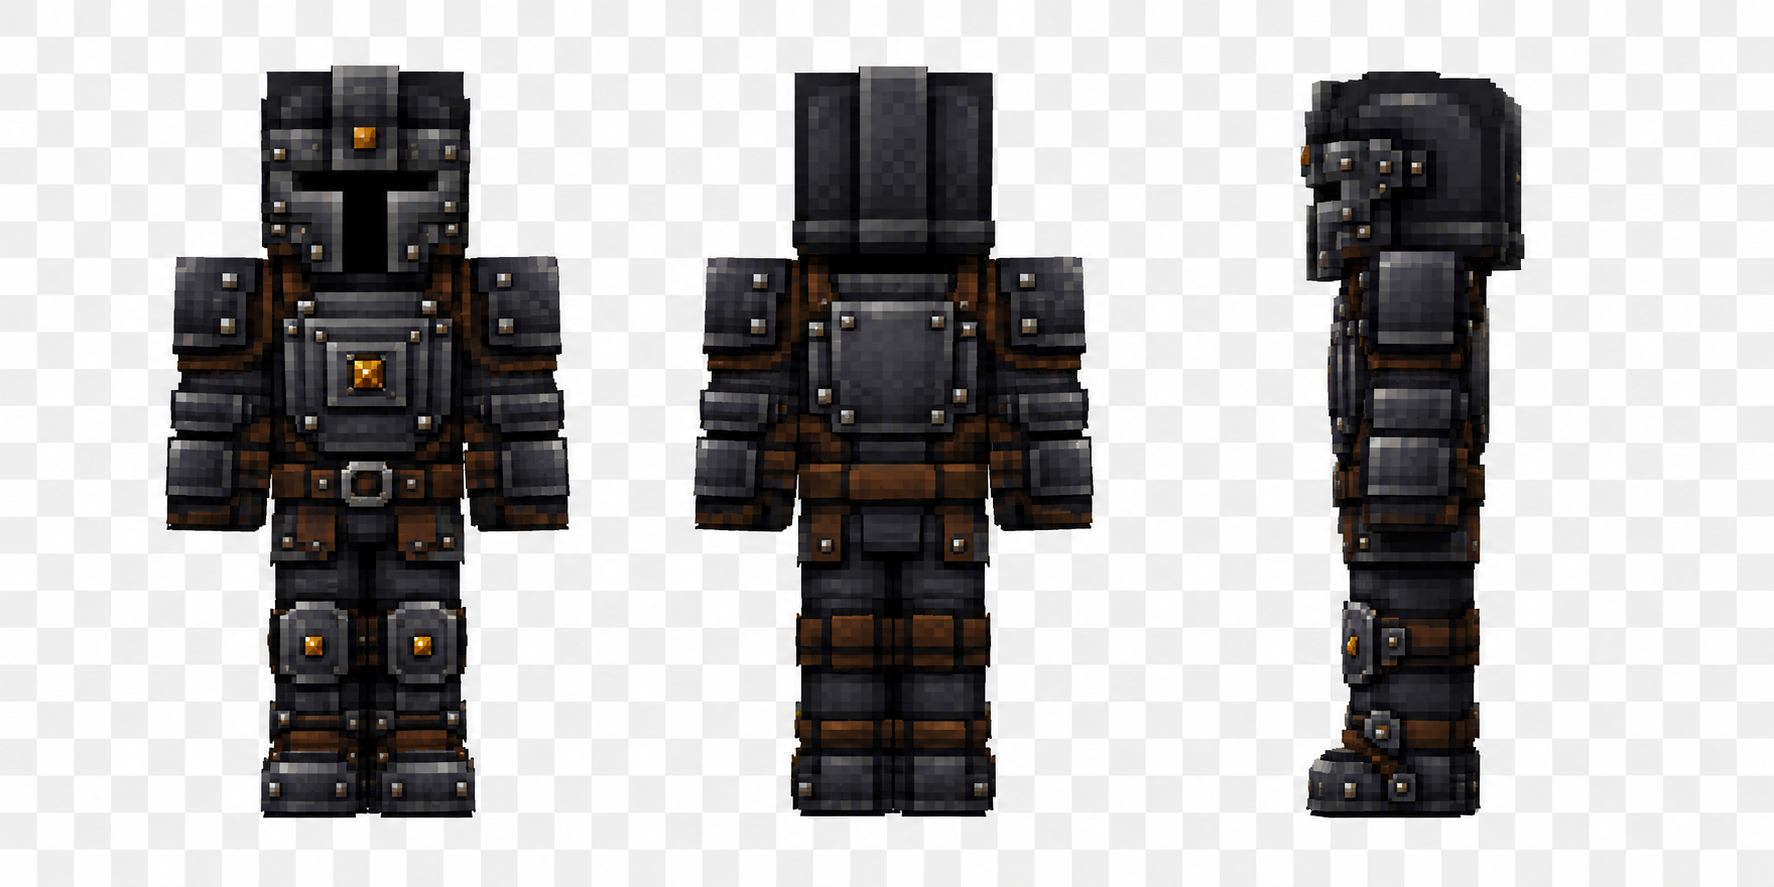
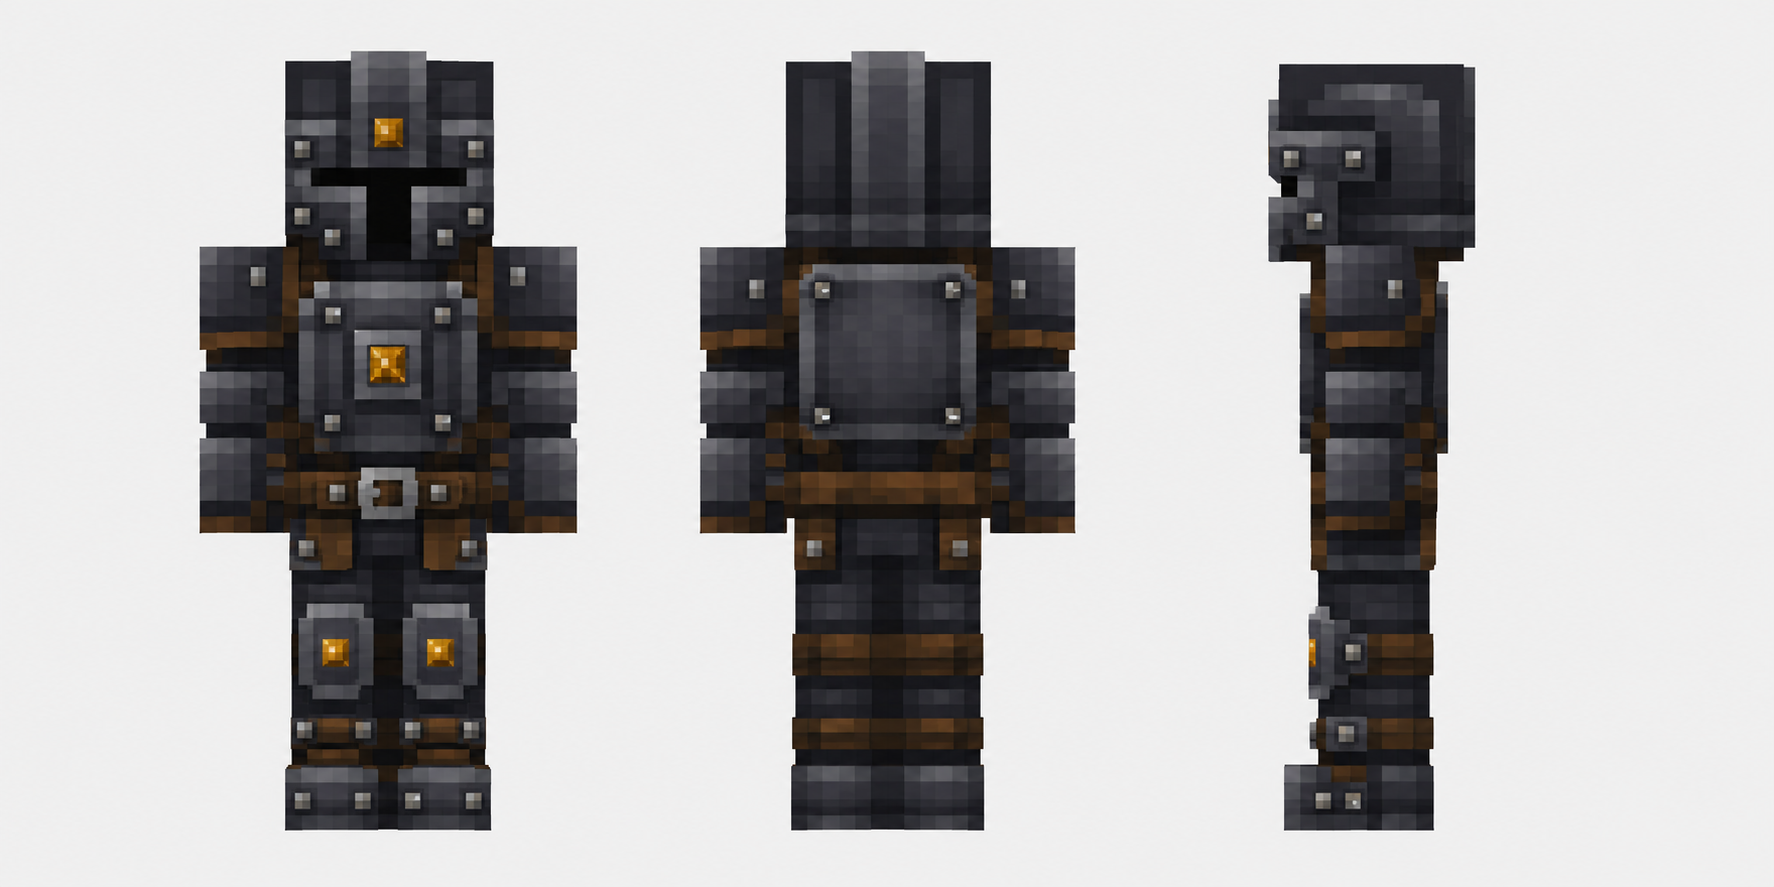
art(rp2): preserve worn reference fidelity on vanilla UV

Changed region(s): [[0.093, 0.0609, 0.341, 0.9436], [0.372, 0.0609, 0.6201, 0.9436], [0.7131, 0.0609, 0.8681, 0.9436]]

diff --git a/scripts/generate_equipment_rp2_pilot.py b/scripts/generate_equipment_rp2_pilot.py
@@ -225,6 +225,124 @@ def project_imagegen_worn(line: dict[str, Any], main: Image.Image, leggings: Ima
                 leggings.alpha_composite(texture, (box[0], box[1]))
 
 
+def paint_face_pattern(image: Image.Image, box: tuple[int, int, int, int], pattern: tuple[str, ...],
+                       palette: list[tuple[int, int, int, int]]) -> None:
+    """Paint one authored low-resolution motif directly onto a vanilla armor UV face."""
+    width = box[2] - box[0]
+    height = box[3] - box[1]
+    if len(pattern) != height or any(len(row) != width for row in pattern):
+        raise SystemExit(f"Invalid worn UV pattern {width}x{height}: {pattern}")
+    values = {
+        ".": (0, 0, 0, 0),
+        "d": palette[0], "b": palette[1], "m": palette[2], "l": palette[3],
+        "s": palette[4], "a": palette[5],
+    }
+    pixels = image.load()
+    for y, row in enumerate(pattern):
+        for x, token in enumerate(row):
+            pixels[box[0] + x, box[1] + y] = values[token]
+
+
+def paint_imagegen_identity(line: dict[str, Any], main: Image.Image, leggings: Image.Image,
+                            palette: list[tuple[int, int, int, int]]) -> None:
+    """Preserve the bold motifs of each committed ImageGen turnaround at real UV resolution."""
+    family = line["family"]
+    identity_palette = list(palette)
+    if family == "PLATE":
+        # The Art Bible secondary is the amber-bearing leather joint, not another focal glow.
+        identity_palette[4] = shade(identity_palette[4], .58)
+    patterns: dict[str, dict[str, tuple[str, ...]]]
+    if family == "CLOTH":
+        patterns = {
+            "front": {
+                "head": ("mbllllbm", "lbbbbbbm", "lb....bm", "lb....bm", "lb....bm", "lb....bm", "lbbbbbbm", "mssssssm"),
+                "body": ("lbbbbbbm", "lbbllbbm", "lblbbbmm", "lbllbbmm", "lbllbbmm", "lblbbbmm", "lbbllbbm", "lbbbbbbm", "ssssssss", "lbbaabmm", "lbbssbmm", "mllllllm"),
+                "arm": ("mbbm", "lbbm", "lbbm", "lbbm", "lbbm", "lsbm", "sbls", "lbbm", "lbbm", "lbbm", "ssss", "mllm"),
+                "leg": ("lbbm", "lbsm", "lbam", "lbsm", "lbbm", "lbbm", "lbbm", "lbbm", "lbsm", "lsbm", "lbbm", "mllm"),
+            },
+            "back": {
+                "head": ("mbllllbm", "lbblllbm", "lbllbbbm", "lbllbbbm", "lbllbbbm", "lbblllbm", "lbbbbllm", "mllllllm"),
+                "body": ("lbbbbbbm", "lbblllbm", "lbllbbbm", "lbllbbbm", "lbllbbbm", "lbblllbm", "lbbbbllm", "lbbbbbbm", "ssssssss", "lbbbbbbm", "lbbbbbbm", "mllllllm"),
+                "arm": ("mbbm", "lbbm", "lbbm", "lbbm", "lbbm", "lsbm", "sbls", "lbbm", "lbbm", "lbbm", "ssss", "mllm"),
+                "leg": ("lbbm", "lbbm", "lbsm", "lbam", "lbsm", "lbbm", "lbbm", "lbbm", "lbbm", "lsbm", "lbbm", "mllm"),
+            },
+            "side": {
+                "head": ("mbllllbm", "lbbbbbbm", "lb....bm", "lb....bm", "lb....bm", "lb....bm", "lbbbbbbm", "mssssssm"),
+                "body": ("lbbm", "lsbm", "lbbm", "lbbm", "lbbm", "lbbm", "lbbm", "lbbm", "sbbm", "lbbm", "lbbm", "mllm"),
+                "arm": ("mbbm", "lbbm", "lbbm", "lbbm", "lbbm", "lsbm", "sbls", "lbbm", "lbbm", "lbbm", "ssss", "mllm"),
+                "leg": ("lbbm", "lbsm", "lbam", "lbsm", "lbbm", "lbbm", "lbbm", "lbbm", "lbsm", "lsbm", "lbbm", "mllm"),
+            },
+        }
+    elif family == "LEATHER":
+        patterns = {
+            "front": {
+                "head": ("bssssssb", "sbbbbbbs", "sb....bs", "sb....bs", "sb....bs", "sb....bs", "sbbbbbbs", "bbssssbb"),
+                "body": ("ssbbbbss", "ssmbbbss", "bmmbbbmb", "bmlmbmbb", "bbmmmbbb", "bbbmmmbb", "bbmbmlmb", "bmmbbmmb", "ssssssss", "bbbaabbb", "bbbssbbb", "dbbbbbbd"),
+                "arm": ("sssb", "sbbb", "mbbb", "bmbb", "bbmb", "bbbm", "ssss", "bbbs", "bbbs", "bbbs", "ssss", "dbbd"),
+                "leg": ("bmsb", "bmmb", "bbmb", "bbbm", "bbbb", "ssss", "baab", "ssss", "baab", "ssss", "bbbb", "dbbd"),
+            },
+            "back": {
+                "head": ("bbssssbb", "bbbbbbbb", "bbbsbbbb", "bbbsbbbb", "bbbsbbbb", "bbbsbbbb", "bbbsbbbb", "bbssssbb"),
+                "body": ("ssbbbbss", "smbbbbms", "bmmbbmmb", "bbmssmbb", "bbbssbbb", "bbmssmbb", "bmmbbmmb", "mmbbbbmm", "ssssssss", "bbbbbbbb", "bbbbbbbb", "dbbbbbbd"),
+                "arm": ("sssb", "sbbb", "mbbb", "bmbb", "bbmb", "bbbm", "ssss", "bbbs", "bbbs", "bbbs", "ssss", "dbbd"),
+                "leg": ("bmsb", "bmmb", "bbmb", "bbbm", "bbbb", "ssss", "bbbb", "bbbb", "ssss", "bbbb", "bbbb", "dbbd"),
+            },
+            "side": {
+                "head": ("bbssssbb", "bbbbbbbs", "bb....bs", "bb....bs", "bb....bs", "bb....bs", "bbbbbbbs", "bbssssbb"),
+                "body": ("sssb", "sbbb", "mbbb", "bmbb", "bbmb", "bbbm", "ssss", "bbbs", "bbbs", "bbbs", "ssss", "dbbd"),
+                "arm": ("sssb", "sbbb", "mbbb", "bmbb", "bbmb", "bbbm", "ssss", "bbbs", "bbbs", "bbbs", "ssss", "dbbd"),
+                "leg": ("bmsb", "bmmb", "bbmb", "bbbm", "bbbb", "ssss", "baab", "ssss", "baab", "ssss", "bbbb", "dbbd"),
+            },
+        }
+    elif family == "MAIL":
+        patterns = {
+            "front": {
+                "head": ("ldldldld", "dldldldl", "ld....ld", "dl....dl", "ld....ld", "dl....dl", "ldssssld", "sasaasas"),
+                "body": ("ldldldld", "dldldlds", "ldldldss", "dldldssb", "ldldssbl", "dldssbld", "ldssbldl", "dssbldld", "ssssssss", "bbbabbba", "bbbbbbbb", "dddddddd"),
+                "arm": ("sasa", "ldld", "dldl", "ldld", "dldl", "ldld", "sasa", "bbbb", "bbbb", "bbbb", "sasa", "dddd"),
+                "leg": ("ldld", "dldl", "ldld", "dldl", "ldld", "dldl", "ldld", "dldl", "sasa", "bbbb", "bbbb", "dddd"),
+            },
+            "back": {
+                "head": ("ldldldld", "dldldldl", "ldldldld", "dldldldl", "ldldldld", "dldldldl", "ldldldld", "sasaasas"),
+                "body": ("ldldldld", "sldldldl", "ssldldld", "bssldldl", "lbssldld", "dlbssldl", "ldlbssld", "dldlbssd", "ssssssss", "abbbabba", "bbbbbbbb", "dddddddd"),
+                "arm": ("sasa", "ldld", "dldl", "ldld", "dldl", "ldld", "sasa", "bbbb", "bbbb", "bbbb", "sasa", "dddd"),
+                "leg": ("ldld", "dldl", "ldld", "dldl", "ldld", "dldl", "ldld", "dldl", "sasa", "bbbb", "bbbb", "dddd"),
+            },
+            "side": {
+                "head": ("ldldldld", "dldldldl", "ld....ld", "dl....dl", "ld....ld", "dl....dl", "ldssssld", "sasaasas"),
+                "body": ("ldld", "dlds", "ldss", "dssb", "ssbl", "sbld", "bldl", "ldld", "ssss", "bbba", "bbbb", "dddd"),
+                "arm": ("sasa", "ldld", "dldl", "ldld", "dldl", "ldld", "sasa", "bbbb", "bbbb", "bbbb", "sasa", "dddd"),
+                "leg": ("ldld", "dldl", "ldld", "dldl", "ldld", "dldl", "ldld", "dldl", "sasa", "bbbb", "bbbb", "dddd"),
+            },
+        }
+    else:
+        patterns = {
+            "front": {
+                "head": ("dllmmlld", "lmbbbblm", "lbaaaabl", "lbddddbl", "lddddddl", "lddddddl", "lbbllbbl", "dllsslld"),
+                "body": ("dllssldd", "lssssssl", "lsllllsl", "lsmbbmsl", "lsbaabsl", "lsbaabsl", "lsmbbmsl", "lsllllsl", "lssssssl", "dbssssbd", "dbbbbbbd", "dddddddd"),
+                "arm": ("dssd", "slls", "sbbd", "lmml", "lssl", "lssl", "lmml", "sbbd", "lssl", "lmml", "sbbd", "dddd"),
+                "leg": ("dssd", "slls", "slas", "slls", "sdds", "slls", "dbbd", "ssss", "slls", "sdds", "slls", "dddd"),
+            },
+            "back": {
+                "head": ("dllmmlld", "lmbbbblm", "lmbbbblm", "lmbbbblm", "lmbbbblm", "lmbbbblm", "lbbllbbl", "dllsslld"),
+                "body": ("dllssldd", "lssssssl", "lsllllsl", "lsmbbmsl", "lsmbbmsl", "lsmbbmsl", "lsmbbmsl", "lsllllsl", "lssssssl", "dbssssbd", "dbbbbbbd", "dddddddd"),
+                "arm": ("dssd", "slls", "sbbd", "lmml", "lssl", "lssl", "lmml", "sbbd", "lssl", "lmml", "sbbd", "dddd"),
+                "leg": ("dssd", "slls", "slls", "sdds", "slls", "slls", "dbbd", "ssss", "slls", "sdds", "slls", "dddd"),
+            },
+            "side": {
+                "head": ("dllmmlld", "lmbbbblm", "lmbbbblm", "lddddddl", "lddddddl", "lddddddl", "lbbllbbl", "dllsslld"),
+                "body": ("dssd", "slls", "sbbd", "lmml", "lssl", "lssl", "lmml", "sbbd", "lssl", "lmml", "sbbd", "dddd"),
+                "arm": ("dssd", "slls", "sbbd", "lmml", "lssl", "lssl", "lmml", "sbbd", "lssl", "lmml", "sbbd", "dddd"),
+                "leg": ("dssd", "slls", "slas", "slls", "sdds", "slls", "dbbd", "ssss", "slls", "sdds", "slls", "dddd"),
+            },
+        }
+    for view, parts in patterns.items():
+        for part, pattern in parts.items():
+            paint_face_pattern(main, FACE_UV[view][part], pattern, identity_palette)
+            if part in {"body", "leg"}:
+                paint_face_pattern(leggings, FACE_UV[view][part], pattern, identity_palette)
+
+
 def worn_textures(line: dict[str, Any]) -> tuple[Image.Image, Image.Image]:
     palette = imagegen_worn_palette(line)
     dark, base, mid, light, secondary, accent = palette
@@ -328,6 +446,7 @@ def worn_textures(line: dict[str, Any]) -> tuple[Image.Image, Image.Image]:
             dm.point((x, y), fill=secondary)
         dm.rectangle((4, 23, 7, 29), outline=light)
         dm.rectangle((8, 23, 11, 29), outline=light)
+    paint_imagegen_identity(line, main, legs, palette)
     return main, legs
 
 
@@ -384,6 +503,19 @@ def comparison_sheet(renders: dict[str, Image.Image]) -> Image.Image:
     return sheet
 
 
+def worn_fidelity_sheet(references: dict[str, Image.Image], renders: dict[str, Image.Image]) -> Image.Image:
+    """Place the ImageGen front source over the actual UV render for direct fidelity review."""
+    sheet = Image.new("RGBA", (720, 560), (22, 24, 26, 255))
+    for index, family in enumerate(("CLOTH", "LEATHER", "MAIL", "PLATE")):
+        source = references[family]
+        ratio = min(164 / source.width, 260 / source.height)
+        source = source.resize((max(1, round(source.width * ratio)), max(1, round(source.height * ratio))),
+                               Image.Resampling.NEAREST)
+        sheet.alpha_composite(source, (index * 180 + (180 - source.width) // 2, (280 - source.height) // 2))
+        sheet.alpha_composite(renders[family], (index * 180, 280))
+    return sheet
+
+
 def build_files(selection: dict[str, Any], art: dict[str, Any]) -> tuple[dict[Path, bytes], dict[str, Any]]:
     by_id = {line["canonical_line_id"]: line for line in art["gear_lines"]}
     selected = selection["selected_lines"]
@@ -392,6 +524,7 @@ def build_files(selection: dict[str, Any], art: dict[str, Any]) -> tuple[dict[Pa
     files: dict[Path, bytes] = {}
     piece_records: list[dict[str, Any]] = []
     family_front: dict[str, Image.Image] = {}
+    family_reference: dict[str, Image.Image] = {}
     evidence_index: list[dict[str, Any]] = []
     custom_assets: list[str] = []
     custom_models: list[str] = []
@@ -451,6 +584,7 @@ def build_files(selection: dict[str, Any], art: dict[str, Any]) -> tuple[dict[Pa
 
         views = {view: mannequin(main, leggings, view, (177, 132, 104, 255)) for view in ("front", "back", "side")}
         family_front[line["family"]] = views["front"]
+        family_reference[line["family"]] = authored_worn_view(line_id, 0)
         inventory = inventory_sheet(line, icons)
         line_evidence = []
         for name, image in {"inventory": inventory, **views}.items():
@@ -460,6 +594,8 @@ def build_files(selection: dict[str, Any], art: dict[str, Any]) -> tuple[dict[Pa
         evidence_index.append({"line_id": line_id, "family": line["family"], "proof_mode": "OFFLINE_DETERMINISTIC_RENDER", "files": line_evidence})
 
     files[EVIDENCE / "family-comparison.png"] = png_bytes(comparison_sheet(family_front))
+    files[EVIDENCE / "worn-reference-comparison.png"] = png_bytes(
+        worn_fidelity_sheet(family_reference, family_front))
     skin_sheet = Image.new("RGBA", (720, 840), (22, 24, 26, 255))
     skin_values = [(78, 52, 43, 255), (177, 132, 104, 255), (224, 184, 151, 255)]
     for row, skin in enumerate(skin_values):
@@ -497,6 +633,7 @@ def build_files(selection: dict[str, Any], art: dict[str, Any]) -> tuple[dict[Pa
         "schema": 1, "proof_mode": "OFFLINE_DETERMINISTIC_RENDER", "human_client_staging_required": True,
         "lines": evidence_index,
         "comparison": str(EVIDENCE / "family-comparison.png"),
+        "worn_reference_comparison": str(EVIDENCE / "worn-reference-comparison.png"),
         "skin_compatibility": str(EVIDENCE / "skin-compatibility.png"),
         "scale_readability": str(EVIDENCE / "scale-readability.png"),
         "concept_reference": str(concept_reference),

diff --git a/scripts/validate_equipment_rp2_pilot.py b/scripts/validate_equipment_rp2_pilot.py
@@ -172,7 +172,11 @@ def main() -> None:
     render_paths = []
     for entry in render_index.get("lines", []):
         render_paths.extend(entry.get("files", []))
-    render_paths.extend([render_index.get("comparison"), render_index.get("skin_compatibility"), render_index.get("scale_readability"), render_index.get("concept_reference")])
+    render_paths.extend([
+        render_index.get("comparison"), render_index.get("worn_reference_comparison"),
+        render_index.get("skin_compatibility"), render_index.get("scale_readability"),
+        render_index.get("concept_reference"),
+    ])
     for path_name in filter(None, render_paths):
         if not (ROOT / path_name).is_file():
             errors.append(f"missing render evidence: {path_name}")

diff --git a/docs/development/equipment-rp2-imagegen-prompts.md b/docs/development/equipment-rp2-imagegen-prompts.md
@@ -6,29 +6,35 @@ Shared inventory constraints: transparent 2×2 sheet; HEAD, CHEST, LEGS, FEET or
 
 Shared worn constraints: three equal-scale Minecraft-proportioned views in FRONT, BACK, RIGHT SIDE order; neutral pose; vanilla player silhouette; transparent background; clear surface information; no text, environment, weapons or skin details.
 
+### UV-fidelity revision
+
+The four worn sheets were regenerated after the first offline render showed that concept-scale details did not survive the vanilla atlas. The replacement prompts explicitly require flush vanilla player boxes, separated limbs, orthographic alignment and motifs readable at the real face budgets: head 8×8, torso 8×12, arm 4×12 and leg 4×12. Protruding geometry and details smaller than one useful UV pixel are forbidden. The generator then pins the reference's bold motifs directly to those UV faces instead of treating the turnaround as a generic resize target.
+
+Shared replacement prompt core: redesign the attached line reference as a strict Minecraft Java 1.21.11 vanilla-humanoid worn set; exactly FRONT, BACK and RIGHT SIDE orthographic views at one scale and baseline; rigid neutral pose; only rectangular head/body/arm/leg boxes; deliberately low-resolution Minecraft pixel art with large clusters and hard edges; preserve the named line motifs at the real 8×8 / 8×12 / 4×12 / 4×12 face budgets; no external geometry, perspective, overlapping limbs, labels, watermark, cast shadow or details that cannot survive the final atlas.
+
 ## Holdlen / CLOTH
 
 Inventory prompt: four separate midnight-indigo cloth pieces with layered linen, wrapped bands, silver crescent embroidery and tiny restrained lilac stitch accents; lightweight silhouettes; no mail or plate mass.
 
-Worn prompt: complete Holdlen hooded robe with vertical split panels, silver seam language and wrapped boots; preserve the inventory source identity; no cape mesh, large shoulders or glow bloom.
+Worn replacement specifics: open-face hood; large centered front and back crescent; strong vertical silver seams; restrained lilac belt knot and leg accents; no cape or skirt beyond vanilla leg boxes.
 
 ## Vadbor / LEATHER
 
 Inventory prompt: fitted hunting hood, reinforced vest, segmented leggings and strapped boots in umber/chestnut hide, moss accents, bone stitching and dull brass buckles; diagonal panels and mobile silhouette.
 
-Worn prompt: complete agile leather set with crossed chest straps, layered hide, visible stitching and restrained organic edge accents; no robe, chainmail or rigid shoulder mass.
+Worn replacement specifics: one bold diagonal front strap, returning/crossed back strap, two-pixel-scale stitches, blocky moss shoulder and cuff reinforcement, large belt buckle and readable knee/boot bands.
 
 ## Konnyu otvozet / MAIL
 
 Inventory prompt: chain coif, light chain shirt, chain leggings and chain/leather boots; gunmetal/silver interlocking rings over charcoal backing with restrained copper fasteners; unmistakably actual mail between leather and plate.
 
-Worn prompt: complete ring-mail set dominated by small repeated rings, hanging mail panels, dark backing and leather cuffs; solid alloy panels remain secondary; no plate torso, scales or giant pauldrons.
+Worn replacement specifics: oversized two-tone interlocking ring/check rhythm across coif, torso and legs; bold brown diagonal strap; dark backing; horizontal leather hems and sparse copper single-pixel accents; no noisy grey-dot substitute for mail.
 
 ## Borostyan tarna / PLATE
 
 Inventory prompt: enclosed mining helmet, forged breastplate, articulated leggings and sabatons; dark iron, framed plates, small amber mineral insets, brass rivets and leather joints; heavy and practical.
 
-Worn prompt: complete mine-forged plate set with modest shoulders and a single chest focal inset plus tiny helmet/knee accents; dark iron dominates; no netherite recolor, spikes, excessive gold or glow.
+Worn replacement specifics: closed helmet with bold brow and narrow dark visor; large framed chest plate with one amber square; plain framed back plate; vertical forged bands, joint leather, corner rivets and framed greaves; no external shoulder geometry.
 
 ## Deterministic handoff
 
